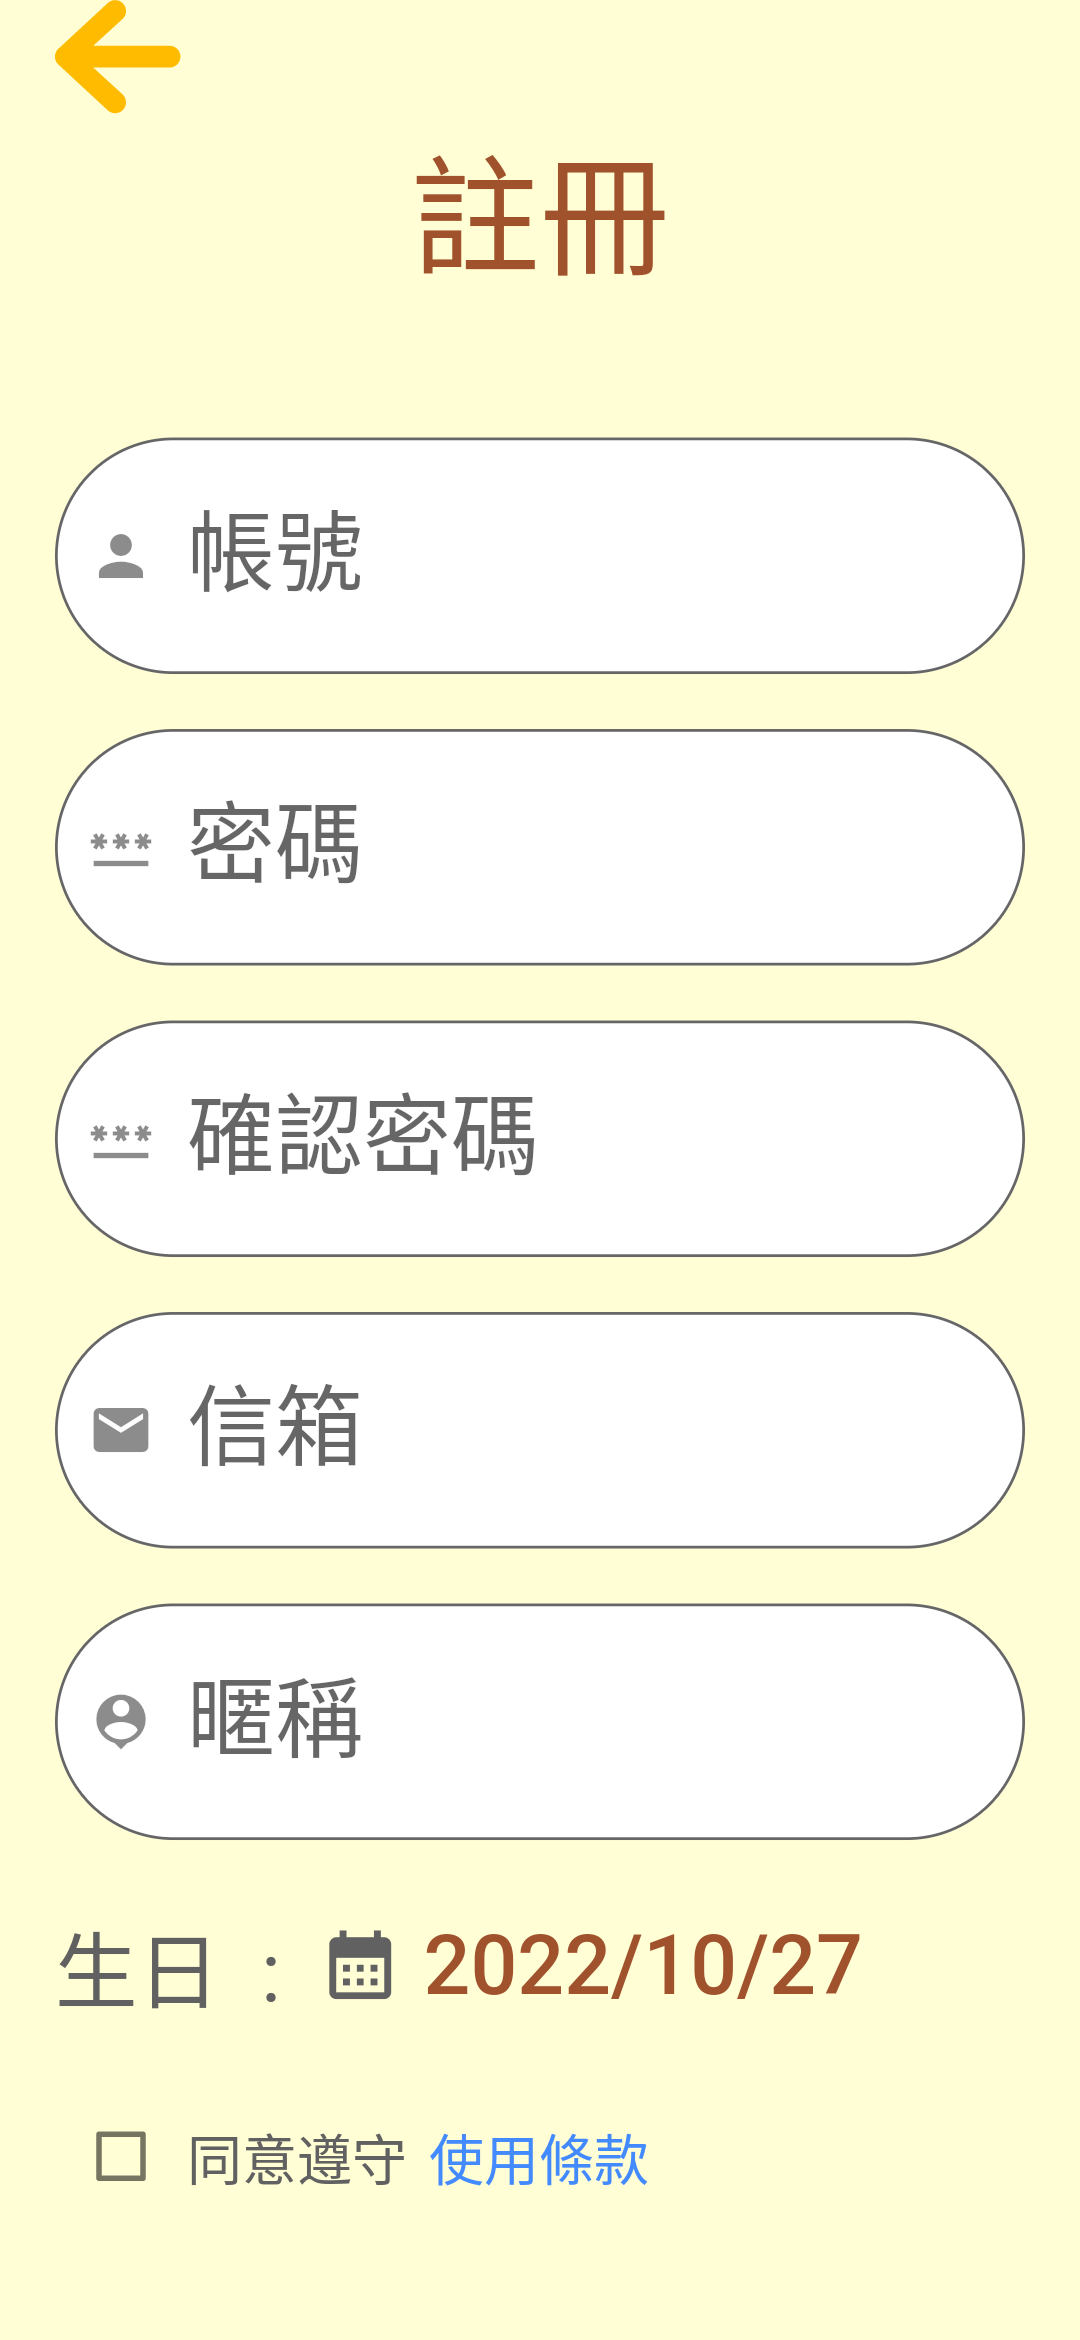
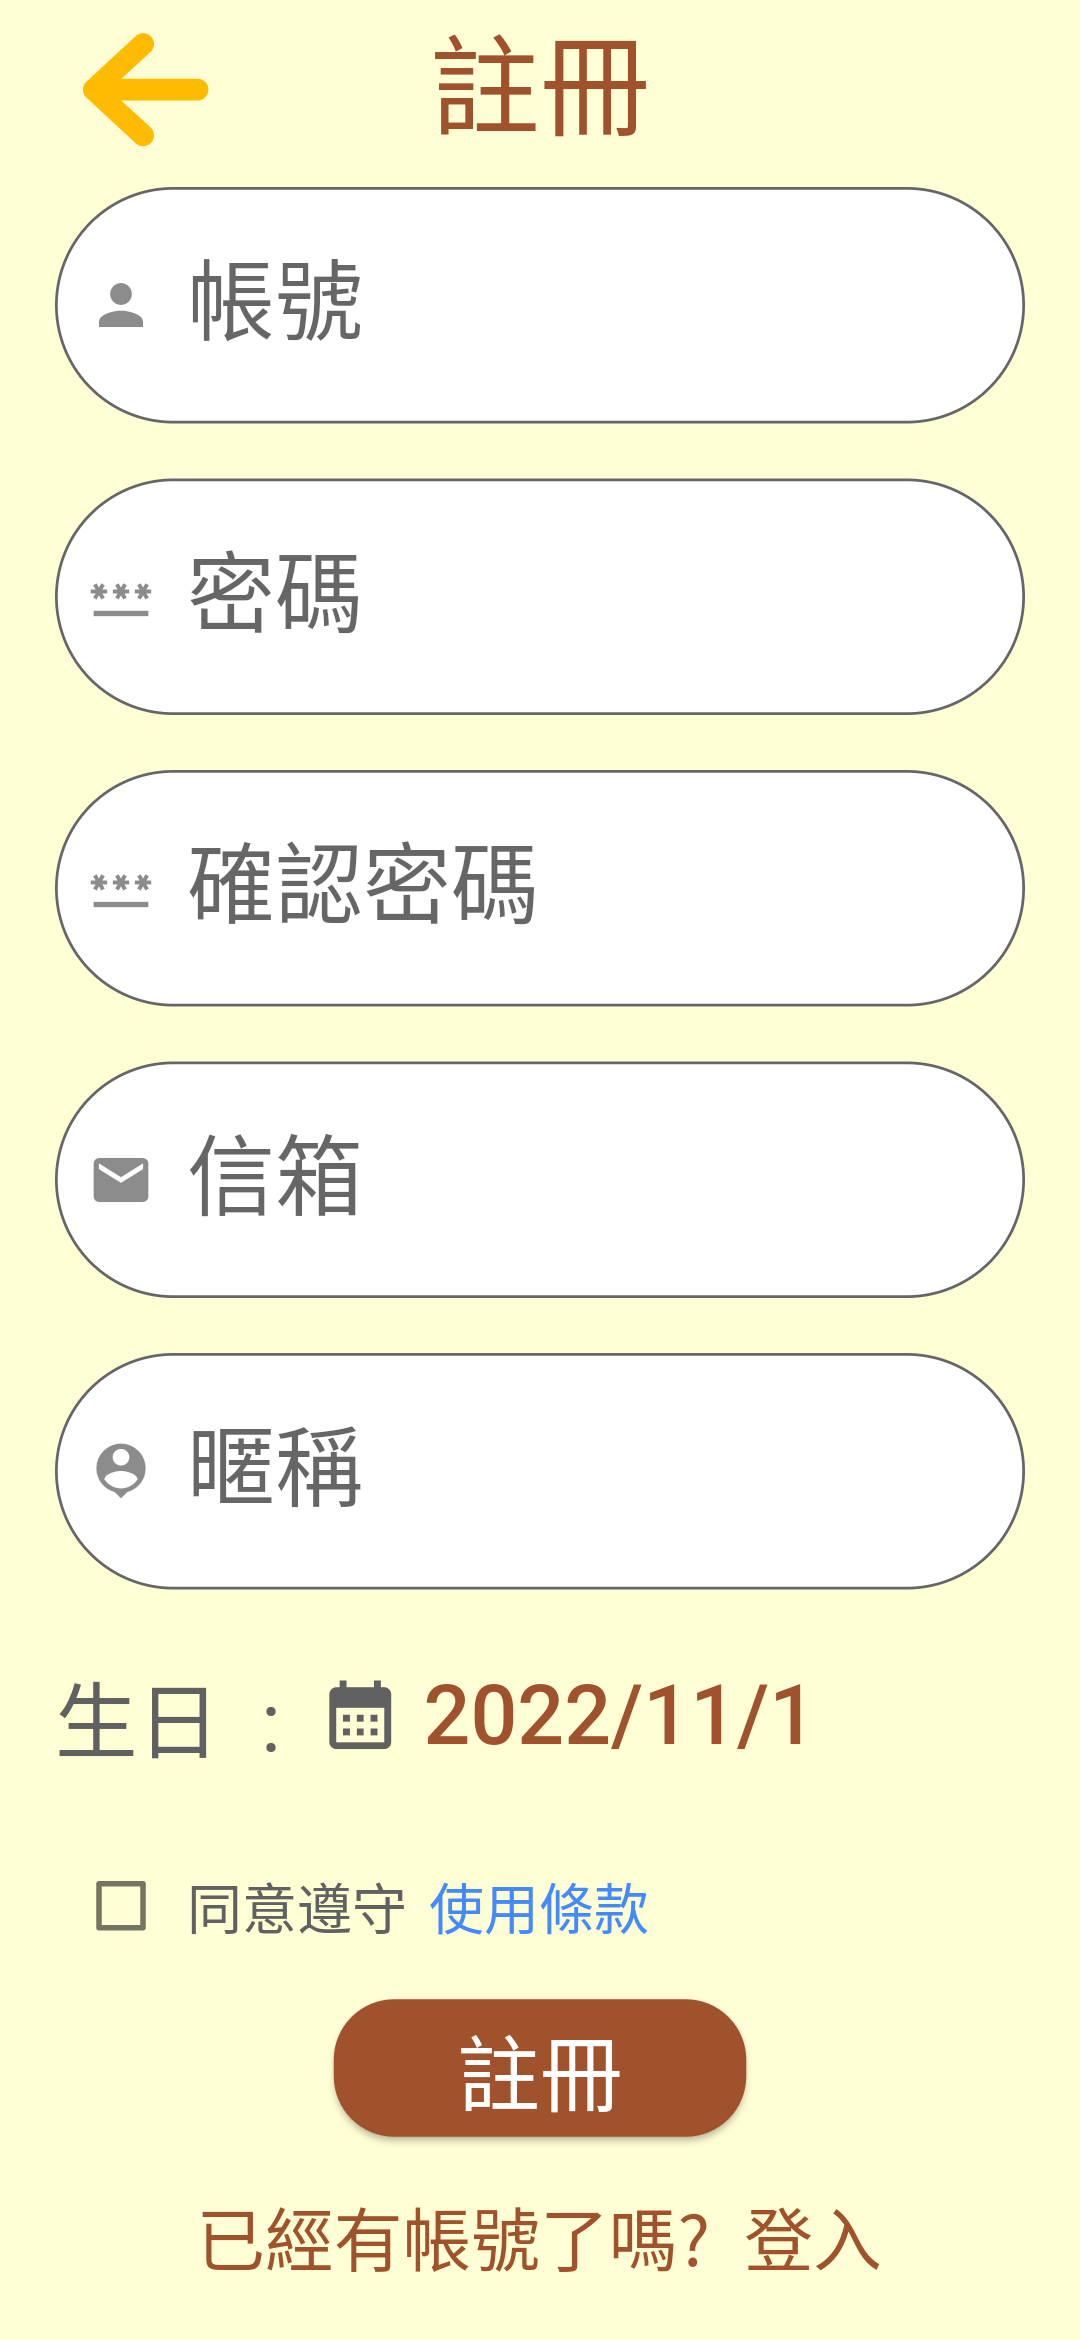
註冊畫面跑版更新

diff --git a/front-end/monsters_front_end/lib/pages/signUp.dart b/front-end/monsters_front_end/lib/pages/signUp.dart
@@ -51,36 +51,46 @@ class _SignUpState extends State<SignUp> {
                   mainAxisAlignment: MainAxisAlignment.center,
                   children: [
                     //上一頁
-                    Align(
-                      alignment: Alignment.topLeft,
-                      child:
-                          // Adobe XD layer: 'Icon ionic-md-arrow…' (shape)
-                          PageLink(
-                        links: [
-                          PageLinkInfo(
-                            transition: LinkTransition.Fade,
-                            ease: Curves.easeOut,
-                            duration: 0.3,
-                            pageBuilder: () => LoginPage(),
+                    Stack(
+                      children: [
+                        Align(
+                          alignment: Alignment.topLeft,
+                          child:
+                              // Adobe XD layer: 'Icon ionic-md-arrow…' (shape)
+                              Padding(
+                            padding: const EdgeInsets.fromLTRB(10, 12, 0, 0),
+                            child: PageLink(
+                              links: [
+                                PageLinkInfo(
+                                  transition: LinkTransition.Fade,
+                                  ease: Curves.easeOut,
+                                  duration: 0.3,
+                                  pageBuilder: () => LoginPage(),
+                                ),
+                              ],
+                              child: SvgPicture.string(
+                                _svg_ryq30,
+                                allowDrawingOutsideViewBox: true,
+                                fit: BoxFit.fill,
+                              ),
+                            ),
                           ),
-                        ],
-                        child: SvgPicture.string(
-                          _svg_ryq30,
-                          allowDrawingOutsideViewBox: true,
-                          fit: BoxFit.fill,
                         ),
-                      ),
+                        //標題
+                        Center(
+                          child: Text(
+                            '註冊',
+                            style: TextStyle(
+                              fontFamily: 'Segoe UI',
+                              fontSize: 40,
+                              color: Color.fromRGBO(160, 82, 45, 1),
+                            ),
+                          ),
+                        ),
+                      ],
                     ),
-                    //標題
-                    Text(
-                      '註冊',
-                      style: TextStyle(
-                        fontFamily: 'Segoe UI',
-                        fontSize: 47,
-                        color: Color.fromRGBO(160, 82, 45, 1),
-                      ),
-                    ),
-                    SizedBox(height: 50.0),
+
+                    SizedBox(height: 10.0),
                     //帳號
                     TextFormField(
                       autofocus: false,
@@ -339,7 +349,7 @@ class _SignUpState extends State<SignUp> {
                             )),
                       ],
                     ),
-                    SizedBox(height: 50.0),
+                    SizedBox(height: 10.0),
                     //註冊
                     SizedBox(
                       width: 150.0,
@@ -365,7 +375,7 @@ class _SignUpState extends State<SignUp> {
                         },
                       ),
                     ),
-                    SizedBox(height: 20.0),
+                    SizedBox(height: 10.0),
                     //登入
                     Align(
                       alignment: Alignment.bottomCenter,
